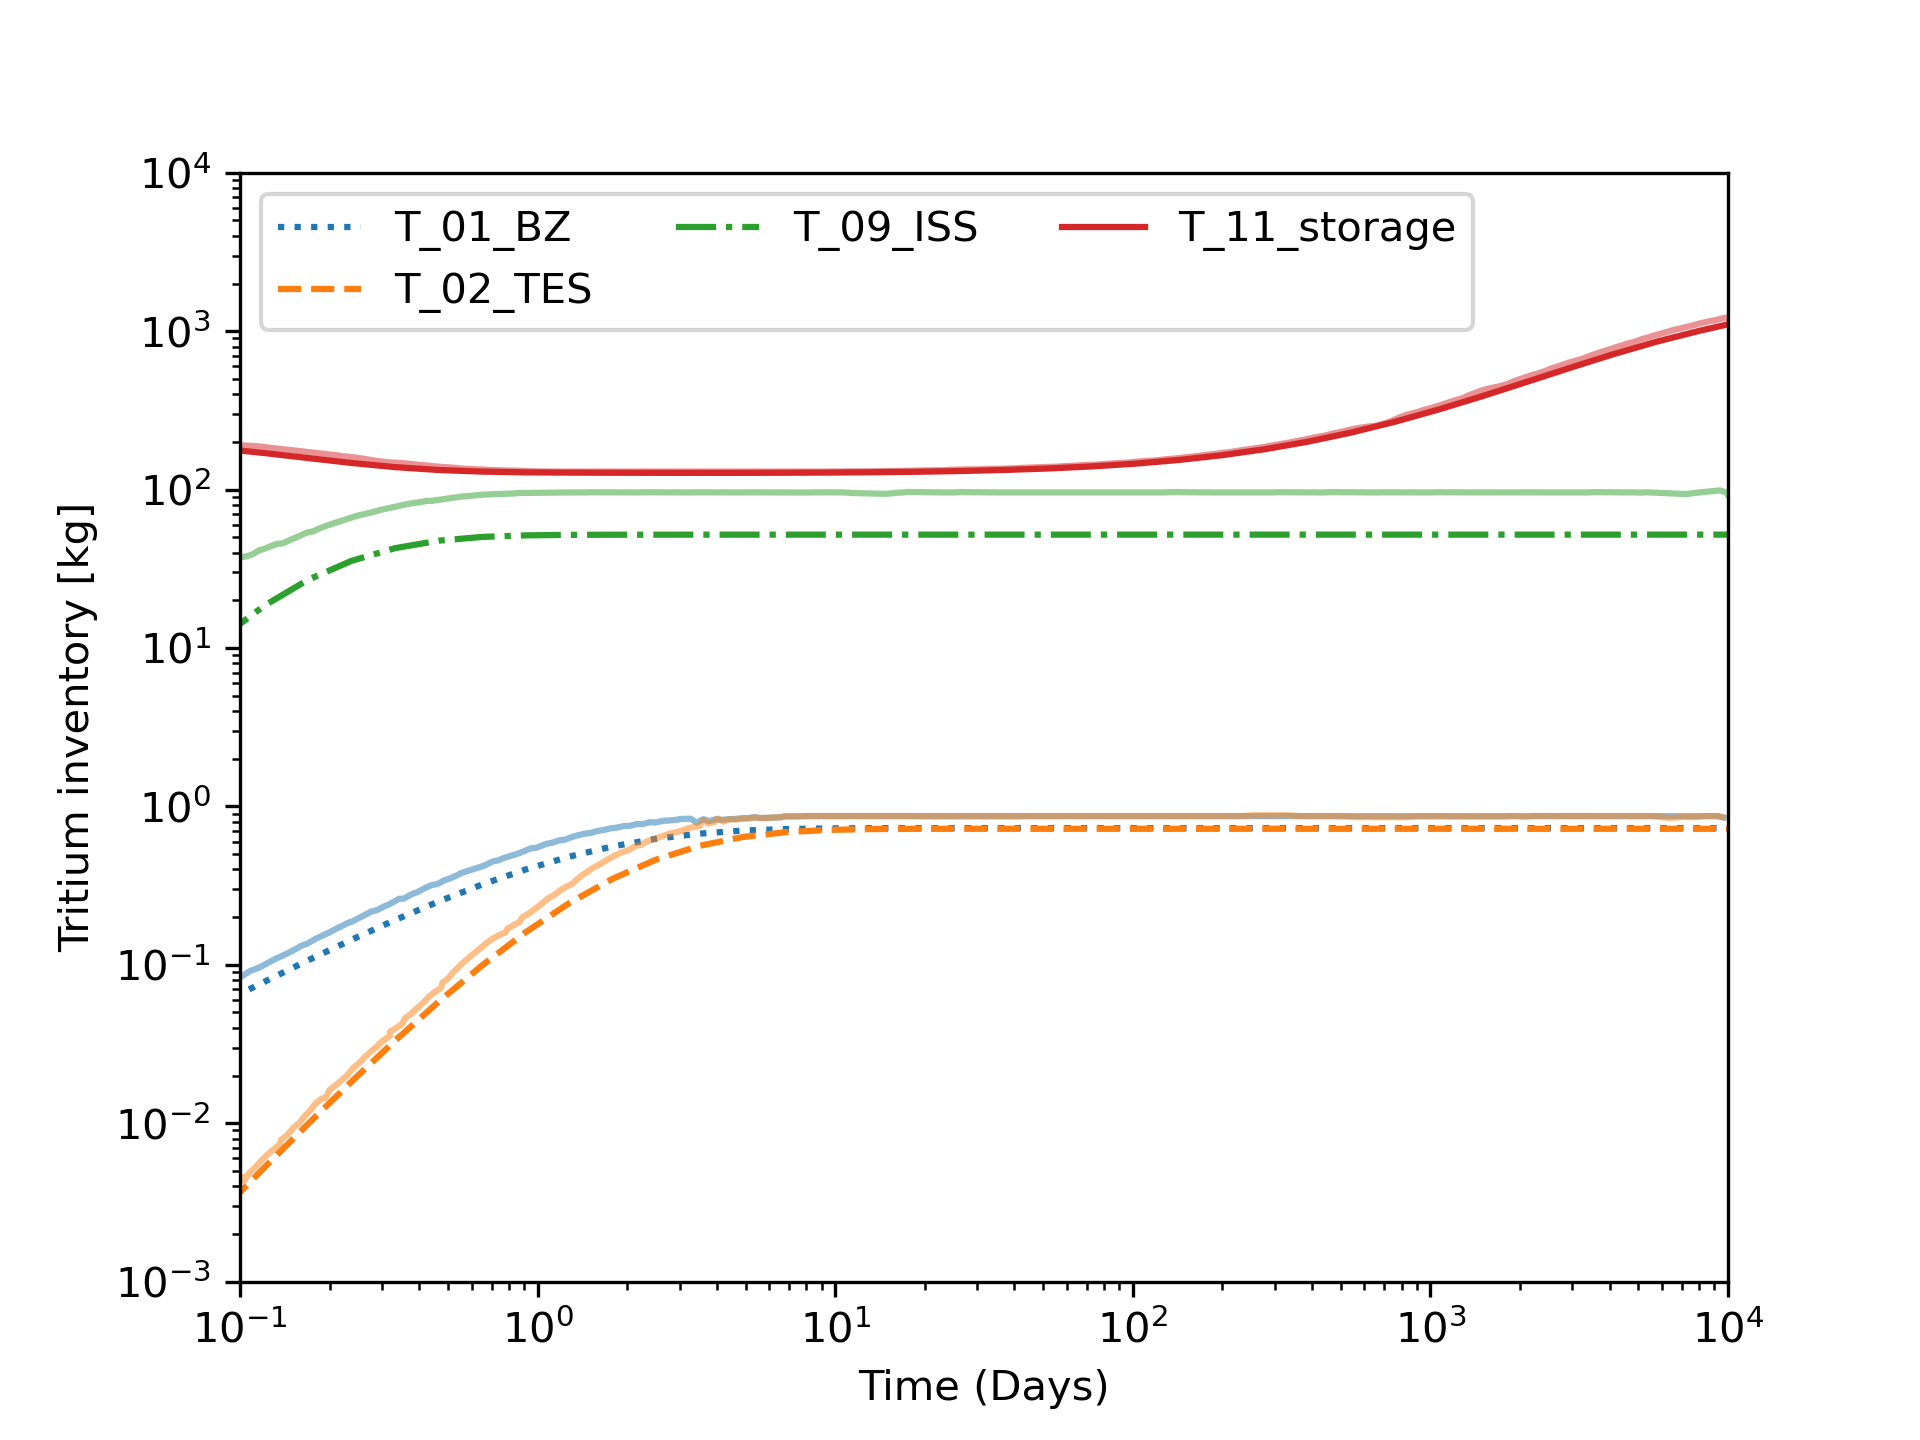
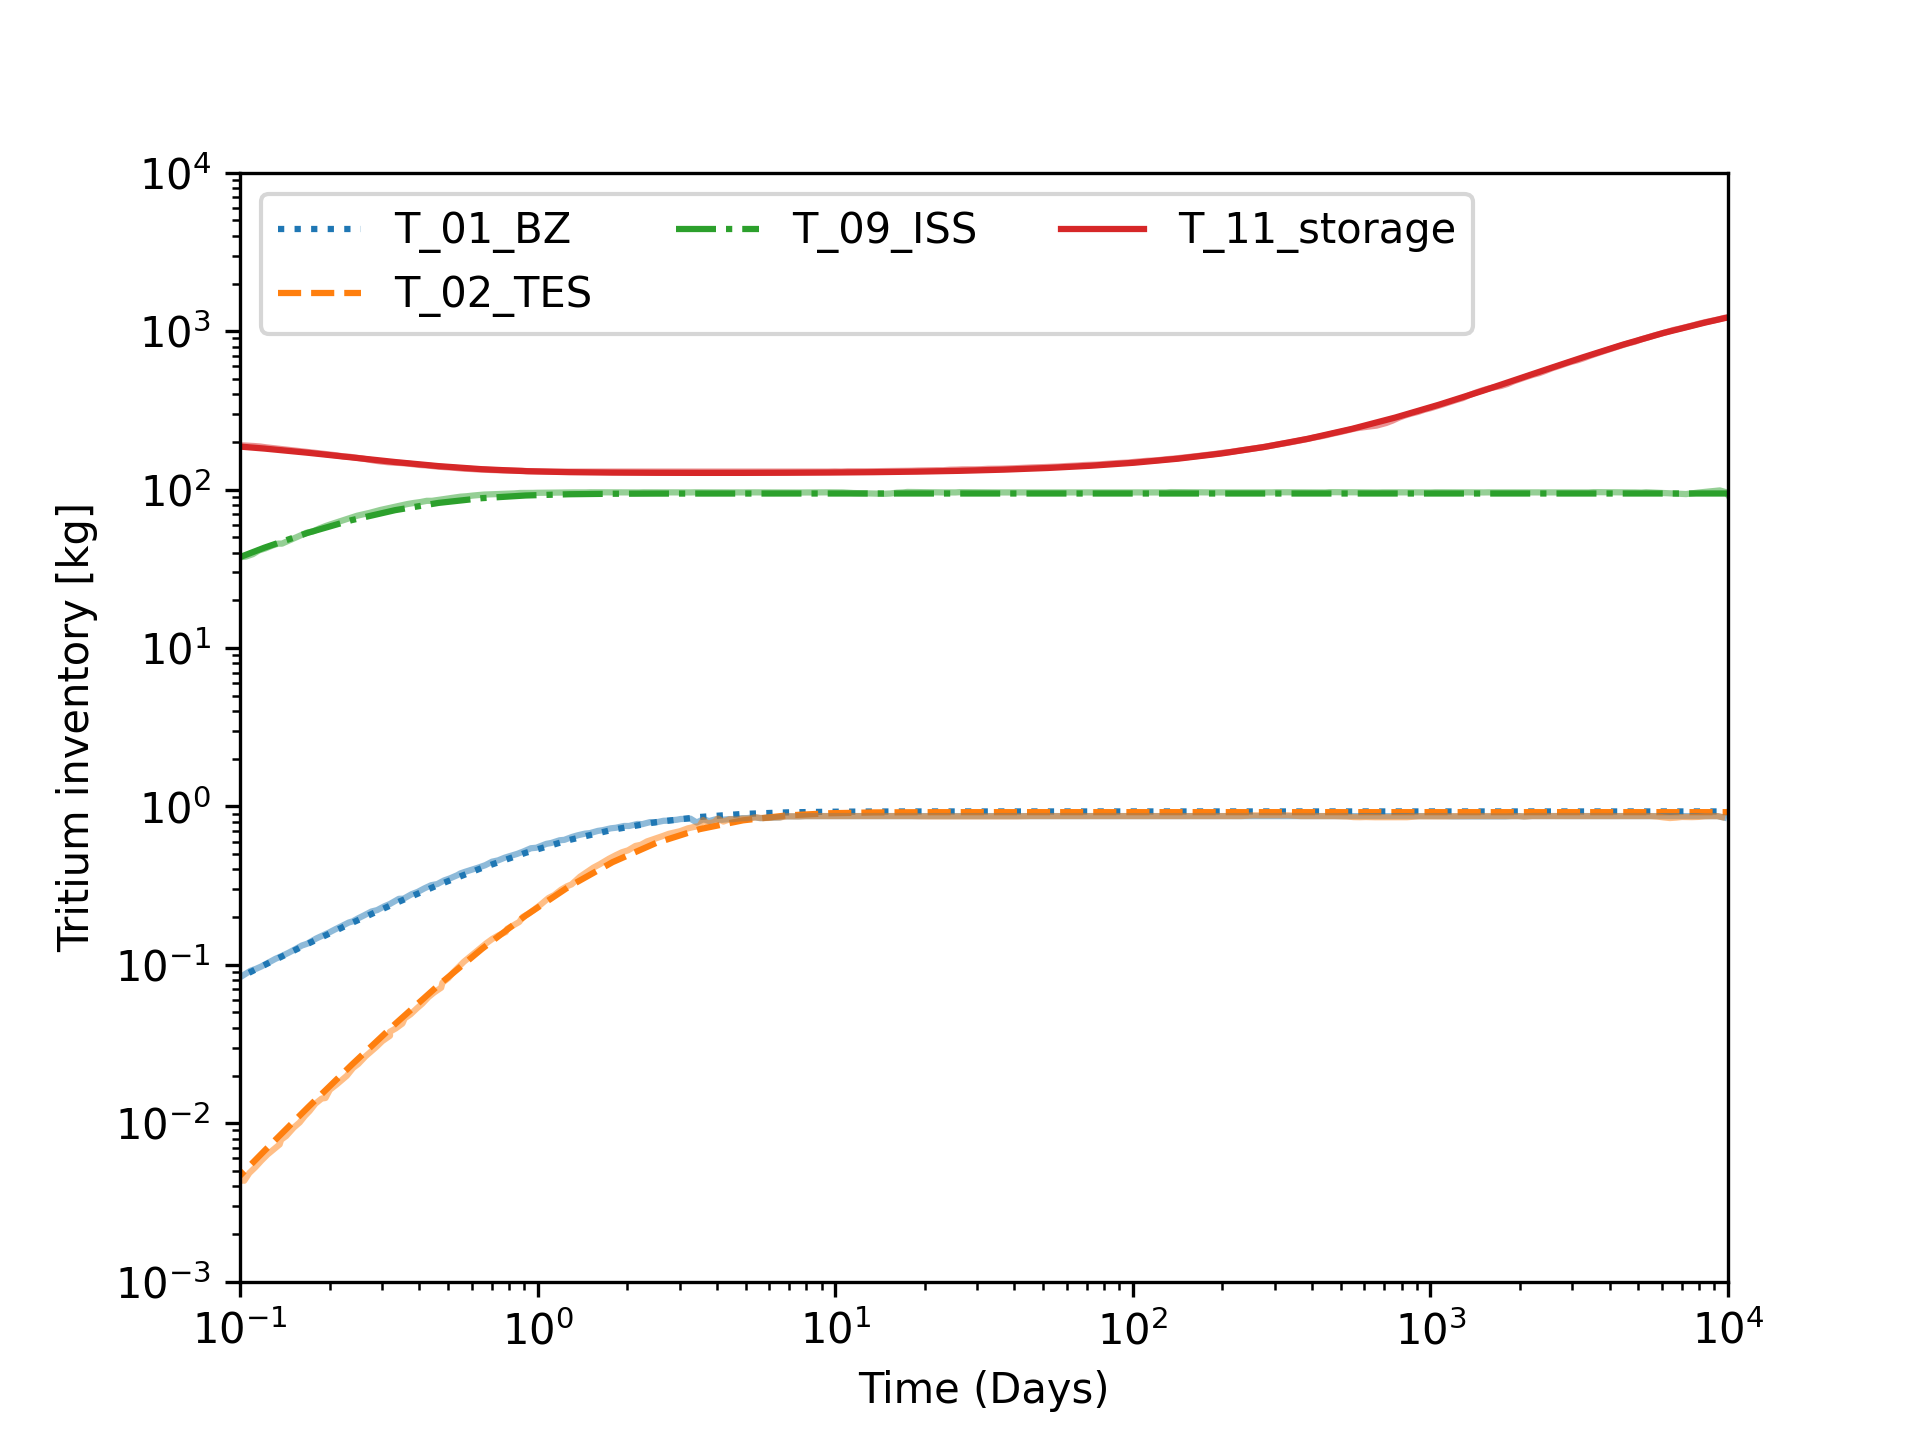
Adjusted the equations and postprocessors to allow for non-radiation losses in the system balance, tweaked the assumptions to obtain a better fit with the Abdou paper, changed the figure and updated the walkthrough to reflect the changes.

diff --git a/doc/content/examples/fuel_cycle/index.md b/doc/content/examples/fuel_cycle/index.md
@@ -31,51 +31,51 @@ their own ODE and tritium inventory:
 
 \begin{equation}
 \label{eqn:t1}
-\frac{dI_1}{dt} = \Lambda \dot{N}^{-} + (1-\eta_2)\frac{I_2}{\tau_2} - \frac{I_1}{\tau_1} - I_1\lambda
+\frac{dI_1}{dt} = \Lambda \dot{N}^{-} + (1-\eta_2)\frac{I_2}{\tau_2} - \frac{I_1}{\tau_1}- \frac{I_1\varepsilon_1}{\tau_1} - I_1\lambda
 \end{equation}
 
 \begin{equation}
 \label{eqn:t2}
-\frac{dI_2}{dt} = (1-f_{1-5})\frac{I_1}{\tau_1} - \frac{I_2}{\tau_2} - I_2\lambda
+\frac{dI_2}{dt} = (1-f_{1-5})\frac{I_1}{\tau_1} - \frac{I_2}{\tau_2} - \frac{I_2\varepsilon_2}{\tau_2} - I_2\lambda
 \end{equation}
 
 \begin{equation}
 \label{eqn:t3}
-\frac{dI_3}{dt} = f_{p-3}\frac{\dot{N}^{-}}{\eta_f f_b} + f_{5-3}(1-f_{5-6})(1-f_{5-10})\frac{I_5}{\tau_5} + f_{6-3}(1-\eta_6)\frac{I_6}{\tau_6} - \frac{I_3}{\tau_3} - I_3\lambda
+\frac{dI_3}{dt} = f_{p-3}\frac{\dot{N}^{-}}{\eta_f f_b} + f_{5-3}(1-f_{5-6})(1-f_{5-10})\frac{I_5}{\tau_5} + f_{6-3}(1-\eta_6)\frac{I_6}{\tau_6} - \frac{I_3}{\tau_3} - \frac{I_3\varepsilon_3}{\tau_3} - I_3\lambda
 \end{equation}
 
 \begin{equation}
 \label{eqn:t4}
-\frac{dI_4}{dt} = f_{p-4}\frac{\dot{N}^{-}}{\eta_f f_b} + (1-f_{5-3})(1-f_{5-6})(1-f_{5-10})\frac{I_5}{\tau_5} + (1-f_{6-3})(1-\eta_6)\frac{I_6}{\tau_6} - \frac{I_4}{\tau_4} - I_4\lambda
+\frac{dI_4}{dt} = f_{p-4}\frac{\dot{N}^{-}}{\eta_f f_b} + (1-f_{5-3})(1-f_{5-6})(1-f_{5-10})\frac{I_5}{\tau_5} + (1-f_{6-3})(1-\eta_6)\frac{I_6}{\tau_6} - \frac{I_4}{\tau_4} - \frac{I_4\varepsilon_4}{\tau_4}  - I_4\lambda
 \end{equation}
 
 \begin{equation}
 \label{eqn:t5}
-\frac{dI_5}{dt} = f_{1-5}\frac{I_1}{\tau_1}  + \frac{I_3}{\tau_3} + \frac{I_4}{\tau_4} - \frac{I_5}{\tau_5} - I_5\lambda
+\frac{dI_5}{dt} = f_{1-5}\frac{I_1}{\tau_1}  + \frac{I_3}{\tau_3} + \frac{I_4}{\tau_4} - \frac{I_5}{\tau_5} -\frac{I_5\varepsilon_5}{\tau_5} - I_5\lambda
 \end{equation}
 
 \begin{equation}
 \label{eqn:t6}
-\frac{dI_6}{dt} = f_{5-6}(1-f_{5-10})\frac{I_5}{\tau_5} - \frac{I_6}{\tau_6} - I_6\lambda
+\frac{dI_6}{dt} = f_{5-6}(1-f_{5-10})\frac{I_5}{\tau_5} - \frac{I_6}{\tau_6} - \frac{I_6\varepsilon_6}{\tau_6} - I_6\lambda
 \end{equation}
 
 \begin{equation}
 \label{eqn:t7}
-\frac{dI_7}{dt} = (1-\eta_f f_b - f_{p-3} - f_{p-4})\frac{\dot{N}^{-}}{\eta_f f_b} - \frac{I_7}{\tau_7} - I_7\lambda
+\frac{dI_7}{dt} = (1-\eta_f f_b - f_{p-3} - f_{p-4})\frac{\dot{N}^{-}}{\eta_f f_b} - \frac{I_7}{\tau_7} - \frac{I_7\varepsilon_7}{\tau_7} - I_7\lambda
 \end{equation}
 
 \begin{equation}
 \label{eqn:t8}
-\frac{dI_8}{dt} = \frac{I_7}{\tau_7} - \frac{I_8}{\tau_8} - I_8\lambda
+\frac{dI_8}{dt} = \frac{I_7}{\tau_7} - \frac{I_8}{\tau_8} - \frac{I_8\varepsilon_8}{\tau_8} - I_8\lambda
 \end{equation}
 
 \begin{equation}
 \label{eqn:t9}
-\frac{dI_9}{dt} = (1-f_{8-11})\frac{I_8}{\tau_8} + \frac{I_{10}}{\tau_{10}} + \eta_2 \frac{I_2}{\tau_2} + \eta_6 \frac{I_6}{\tau_6} - \frac{I_9}{\tau_9} - I_9\lambda
+\frac{dI_9}{dt} = (1-f_{8-11})\frac{I_8}{\tau_8} + \frac{I_{10}}{\tau_{10}} + \eta_2 \frac{I_2}{\tau_2} + \eta_6 \frac{I_6}{\tau_6} - \frac{I_9\varepsilon_9}{\tau_9} - \frac{I_9}{\tau_9} - I_9\lambda
 \end{equation}
 \begin{equation}
 \label{eqn:t10}
-\frac{dI_{10}}{dt} = f_{5-10}\frac{I_5}{\tau_5} + f_{9-10}\frac{I_9}{\tau_9} - \frac{I_{10}}{\tau_{10}} - I_{10}\lambda
+\frac{dI_{10}}{dt} = f_{5-10}\frac{I_5}{\tau_5} + f_{9-10}\frac{I_9}{\tau_9} - \frac{I_{10}}{\tau_{10}} - \frac{I_{10}\varepsilon_{10}}{\tau_{10}} - I_{10}\lambda
 \end{equation}
 \begin{equation}
 \label{eqn:t11}
@@ -117,30 +117,28 @@ specific components is an exercise left for a later date.
 
 In order to compare against [!cite](Abdou2021), we need to make a few assumptions. First, we set the residence times and other parameters to the values listed in Tables 1-3 of [!cite](Abdou2021)
 (the underlined value if there are multiple options). Here we also assume that the "Fuel clean-up and isotope separation system" total residence time of 4 hours as specified in the
-paper is broken down into 0.5 hour for the vacuum pump, 1.3 hours for the fuel clean-up system and another 2.2 hours for the isotope separation system.
+paper refers to a residence time of 4 hours for the isotope separation system, and negligible (1 second) residence times for the vacuum pump and fuel clean-up system.
 
 Targeting the black lines of Figure 3 of [!cite](Abdou2021), we also need to determine the appropriate reserve inventory $\frac{\dot{N}^-}{\eta_f f_b}t_r q$, which, given $q=0.25$ and
- $t_r=1\ \text{day}$ comes out to 127.5 kg. With this constraint, we can determine the relevant TBR to obtain a doubling time of 5 years, and iterating by hand, a value of 1.511145 yields a
-doubling time of 5 years to three decimal places if `T_11_storage` is given an initial condition of 220.925 as shown in [!ref](assumptions).
+ $t_r=1\ \text{day}$ comes out to 127.5 kg. With this constraint, we can determine the relevant TBR to obtain a doubling time of 5 years, and iterating by hand, a value of 1.9247 yields a
+doubling time of 5 years to three decimal places if `T_11_storage` is given an initial condition of 225.4215 as shown in [!ref](assumptions).
 
 Assumptions
 
 
-!table id=assumptions caption=Assumptions and iterated conditions used for this example.
+!table id=assumptions caption=Assumptions and iteratively obtained conditions used for this example.
 | Parameter | Value |
 | --- | --- |
-| `residence7` ($\tau_5$) | 1800 s |
-| `residence8` ($\tau_8$) | 4680 s |
-| `residence9` ($\tau_9$) | 7920 s |
-| `TBR` | 1.511145 |
-| Initial value for `T_11_storage` | 220.925 kg |
+| `residence7` ($\tau_7$) | 1 s |
+| `residence8` ($\tau_8$) | 1 s |
+| `residence9` ($\tau_9$) | 14400 s |
+| `TBR` ($\Lambda$) | 1.9247 |
+| Initial value for `T_11_storage` | 225.4215 kg |
 
 
 
 We compare our results with those from the black lines in Figure 3 from [!cite](Abdou2021) in [!ref](comparison). The lighter lines are estimates of the values shown in the paper,
-and the darker lines are the results from the model. There is fairly good agreement, though some of the individual inventories, in particular the
-the isotope separation system, which is sensitive to the residence times assumed for the inner fuel cycle, is smaller than expected. This may be due to a different partitioning
-of residence time between the systems than was assumed above.
+and the darker lines are the results from the model. The agreement is quite good, with only a slight deviation for the tritium extraction system inventory as it transitions to a steady-state value.
 
 !media examples/figures/fuel_cycle_abdou_03.png id=comparison caption=Tritium inventories of specific systems as a function of time. Shaded regions are best estimate of Figure 3 in [!cite](Abdou2021).
 lines are model results.
